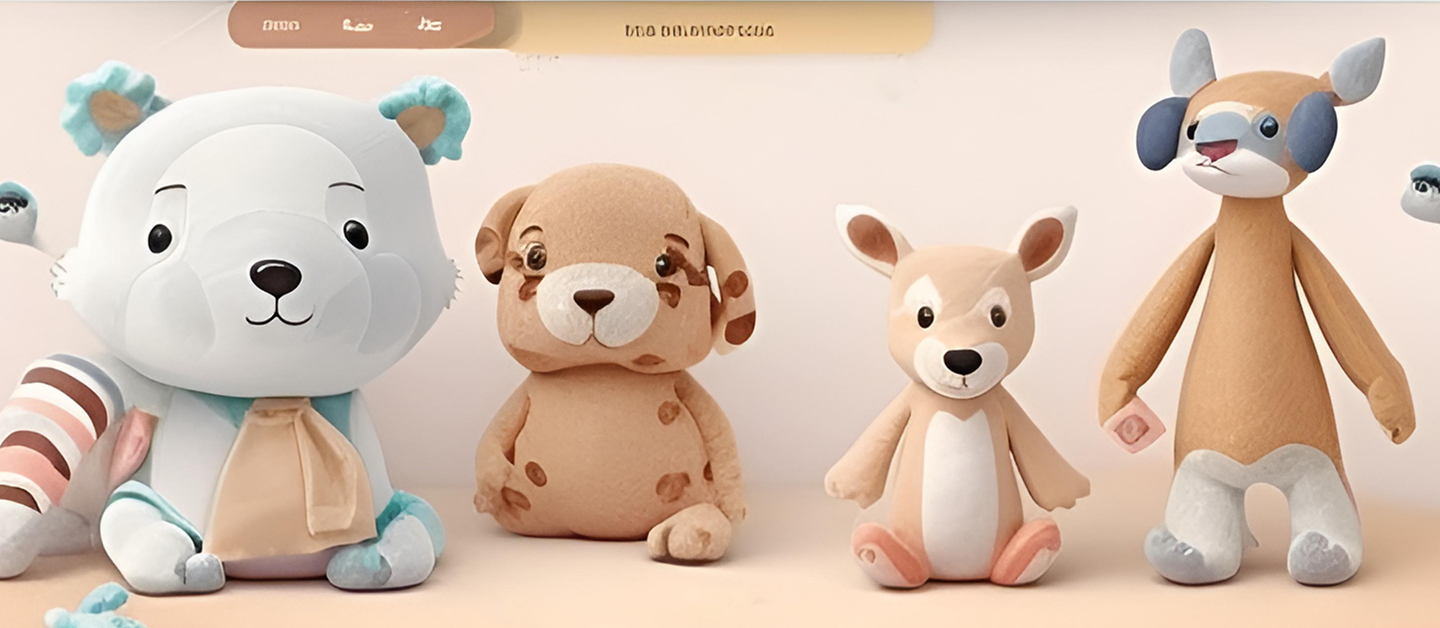
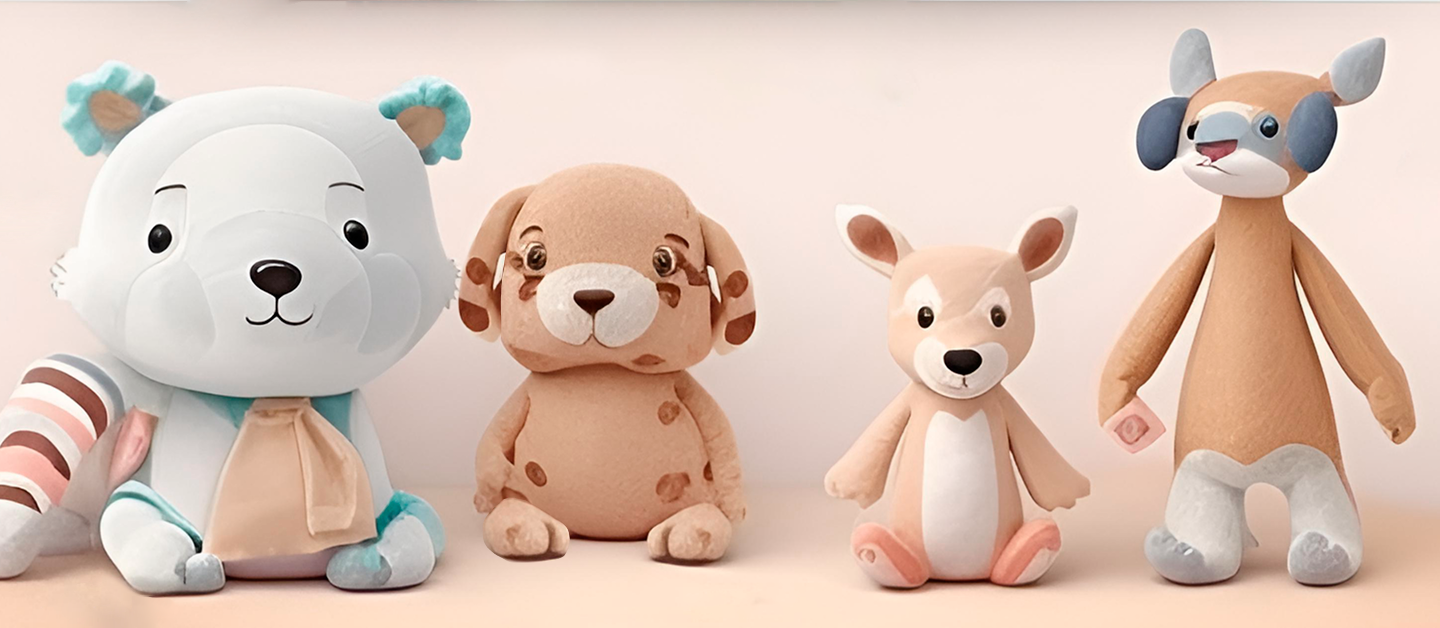
Feito a base da seção 1, para mobile, desktop e tablet

diff --git a/src/styles/css/style.css b/src/styles/css/style.css
@@ -15,6 +15,8 @@
   --color-beige: #f0dacd;
   --color-brown: #bf8b70;
   --color-dark-brown: #29180f;
+
+  --color-gold: #c9b079;
 }
 
 /* Resetando configurações padrão */
@@ -214,12 +216,68 @@ button {
   max-width: 100%;
 }
 
-#body-banner {
-  width: 100%;
-  overflow: hidden;
+#menu-mobile {
+  display: none;
 }
 
-#body-banner img {
+/*SEÇÃO 1*/
+/*Texto promocional GUND*/
+#gund-discount {
+  display: flex;
+  justify-content: center;
+  position: relative;
+  align-items: self-end;
+}
+
+#gund-discount-group {
+  display: flex;
+  justify-content: center;
+  position: absolute;
+
+  width: 100%;
+  top: 0px;
+
+  font-size: 24px;
+  font-weight: 500;
+
+  padding: 0 16px;
+}
+
+#gund-discount-text-one {
+  background-color: var(--color-white);
+  color: var(--color-dark-brown);
+  border-left: 3px var(--color-gold) solid;
+  border-bottom: 3px var(--color-gold) solid;
+  box-shadow: 6px 6px 56px rgba(0, 0, 0, 0.1);
+
+  position: relative;
+  z-index: 1;
+  border-radius: 0 0 66px 66px;
+  padding: 18px 48px 18px;
+  margin-right: -125px;
+}
+
+#gund-discount-text-two {
+  background-color: var(--color-brown);
+  color: var(--color-white);
+  border: 3px var(--color-gold) solid;
+  box-shadow: -6px 0px 56px rgba(0, 0, 0, 0.2);
+
+  position: relative;
+  z-index: 2;
+  border-radius: 0 0 66px 66px;
+  padding: 18px 48px 18px;
+}
+
+/*Imagem de ursos*/
+#gund-discount-banner {
+  width: 100%;
+  overflow: hidden;
+  height: auto;
+  display: block;
+}
+
+#gund-discount-banner img {
   width: 100%;
   max-width: 100%;
   height: auto;
@@ -227,12 +285,8 @@ button {
   object-fit: cover;
 }
 
-#menu-mobile {
-  display: none;
-}
-
 /* MOBILE */
-@media (max-width: 1024px) {
+@media (max-width: 767px) {
   /*Newsletter*/
   #header-newsletter {
     display: none;
@@ -276,11 +330,58 @@ button {
   #menu-group {
     gap: 5vw;
   }
+
+  /*Texto promocional GUND*/
+  #gund-discount {
+    flex-direction: column-reverse;
+    white-space: wrap;
+    background-color: var(--color-brown);
+  }
+
+  #gund-discount-group {
+    font-size: 12px;
+    font-weight: 600;
+    position: relative;
+    padding: 9px;
+    flex-direction: column;
+    align-items: center;
+  }
+
+  #gund-discount-text-one {
+    border-radius: 0 0 66px 66px;
+    padding: 1px 5px 1px;
+    margin-right: 0px;
+
+    border-radius: 0;
+    border: 0;
+    background-color: unset;
+    box-shadow: none;
+  }
+
+  #gund-discount-text-two {
+    padding: 1px 5px 1px;
+    font-weight: 400;
+    border-radius: 0;
+    border: 0;
+    background-color: unset;
+    box-shadow: none;
+  }
 }
 
 /* TABLET*/
 @media (min-width: 768px) and (max-width: 1024px) {
+  /*Newsletter*/
+  #header-newsletter {
+    display: none;
+  }
+
   /* Menu Principal */
+  .header {
+    justify-content: space-between;
+    gap: 3vw;
+    margin: 1rem;
+  }
+
   .header-logo-bear {
     width: 2.4rem;
     height: 2.65rem;
@@ -307,12 +408,36 @@ button {
     display: flex;
   }
 
+  #blue-button {
+    display: none;
+  }
+
+  #menu-group {
+    gap: 5vw;
+  }
+
   .header-menu-list {
-    font-size: 0.9rem;
+    font-size: 1.7vw;
   }
 
   .header-menu-list img {
     width: 0.95rem;
     height: 0.95rem;
+  }
+
+  /*Texto promocional GUND*/
+  body #gund-discount-group {
+    font-size: 15px;
+    font-weight: 500;
+  }
+
+  body #gund-discount-text-one {
+    border-radius: 0 0 66px 66px;
+    padding: 12px 35px 12px;
+    margin-right: -95px;
+  }
+
+  body #gund-discount-text-two {
+    padding: 12px 35px 12px;
   }
 }

diff --git a/src/index.html b/src/index.html
@@ -101,13 +101,13 @@
     <!-- CORPO -->
     <main>
         <!-- Quatro pelucias maiores-->
-        <section>
-            <aside aria-label="on sale">
-                <p>"Ecco l'offerta GUND:</p>
-                <p>40% di sconto dal 20 aprile al 5 maggio!"</p>
+        <section id="gund-discount">
+            <aside id="gund-discount-group" aria-label="on sale">
+                <p id="gund-discount-text-one">"Ecco l'offerta GUND:</p#>
+                <p id="gund-discount-text-two">40% di sconto dal 20 aprile al 5 maggio!"</p>
             </aside>
 
-            <img id="body-banner" src="./assets/images/banner/four-plush-toys.png"
+            <img id="gund-discount-banner" src="./assets/images/banner/four-plush-toys.png"
                 alt="Four large plush toys from the GUND collection">
         </section>
 
